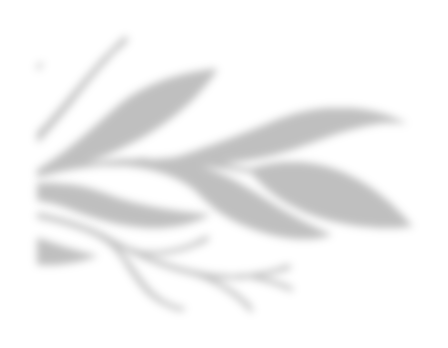
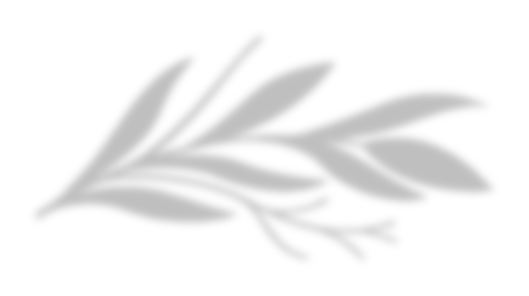
05.29
解決有橫拉問題

diff --git a/dist/style/index.min.css b/dist/style/index.min.css
@@ -1,2 +1,2 @@
-nav.navbar #header .nav-menu ul li a,#BighomeWebsite .text .clickBtn a,#habbits .myArticle h4 a{text-decoration:none}@font-face{font-family:'jf-bubble';src:url("../fonts/jf-openhuninn-1.1/jf-openhuninn-1.1.ttf")}html{scroll-behavior:smooth}body{background-color:#F7F1D7 !important;font-family:'jf-bubble' !important}nav.navbar{position:fixed;z-index:999;right:0}nav.navbar #toggle{width:28px;height:30px;margin:10px 25px;display:none}nav.navbar #toggle div{width:100%;height:5px;background:#DB6C5A;margin:4px auto;-webkit-transition:all 0.3s;transition:all 0.3s;-webkit-backface-visibility:hidden;backface-visibility:hidden}nav.navbar #header{position:fixed;top:0;left:0;bottom:0;z-index:9997;-webkit-transition:all 0.5s;transition:all 0.5s;padding:15px;overflow-y:auto}nav.navbar #header .nav-menu ul{margin:0;padding:0;list-style:none}nav.navbar #header .nav-menu ul li a{display:-webkit-box;display:-ms-flexbox;display:flex;-webkit-box-align:center;-ms-flex-align:center;align-items:center;-webkit-box-pack:center;-ms-flex-pack:center;justify-content:center;color:#F7F1D7;padding:10px 18px;margin-bottom:8px;-webkit-transition:0.3s;transition:0.3s;font-size:15px;border-radius:50px;background:#AAB28A;height:56px;overflow:hidden;transition:0.3s;letter-spacing:2px}nav.navbar #header.active{left:0}nav.navbar #header .nav-menu a:hover,nav.navbar #header .nav-menu .active>a,nav.navbar #header .nav-menu li:hover>a{color:#fff;background:#DC8B7A}#toggle.on .one{-webkit-transform:rotate(45deg) translate(5px, 5px);transform:rotate(45deg) translate(5px, 5px)}#toggle.on .two{opacity:0}#toggle.on .three{-webkit-transform:rotate(-45deg) translate(7px, -8px);transform:rotate(-45deg) translate(7px, -8px)}#banner{height:50vh;padding-top:54px}#banner .aboutme .text{margin:44px 0px;font-size:1.5rem;color:grey;letter-spacing:1px;line-height:57px;text-align:justify}#banner .aboutme .text p{padding-right:1rem}#banner .lineGroup .top{width:100%;height:100%}#banner .lineGroup .top::before{content:'';position:absolute;width:185px;height:3px;background-color:#DB6C5A;-webkit-transform:rotate(-45deg);transform:rotate(-45deg);left:10px;top:50px}#banner .lineGroup .top::after{content:'';position:absolute;width:260px;height:3px;background-color:#DB6C5A;-webkit-transform:rotate(-45deg);transform:rotate(-45deg);left:-10px;top:65px}#banner .lineGroup .bottom{width:100%;height:100%}#banner .lineGroup .bottom::before{content:'';position:absolute;width:174px;height:3px;background-color:#DB6C5A;-webkit-transform:rotate(-45deg);transform:rotate(-45deg);left:10px;top:120px}#banner .lineGroup .bottom::after{content:'';position:absolute;width:250px;height:3px;background-color:#DB6C5A;-webkit-transform:rotate(-45deg);transform:rotate(-45deg);left:23px;top:102px}#banner .photo{position:absolute;left:50%;-webkit-transform:translateX(-50%);transform:translateX(-50%);bottom:-31px;width:404px;height:454px;background-color:#ACB767;background-image:url("../img/shirley_photo.png");background-repeat:no-repeat;background-position:bottom;z-index:99}#banner .irregular{position:absolute;left:50%;-webkit-transform:translateX(-50%);transform:translateX(-50%);width:452px;height:280px;bottom:-73px;background-image:url("../img/irregular_pink.png");background-repeat:no-repeat;z-index:9}#banner .shirley{-webkit-transform:rotate(90deg);transform:rotate(90deg);position:absolute;z-index:399}#banner .shirley .shirley_line text{stroke-dasharray:700;stroke-dashoffset:500;-webkit-animation:dash 5s linear forwards;animation:dash 5s linear forwards}.wave{position:relative;height:50vh}.wave path{fill:#707A56}.wave .resume{position:absolute;top:25%;left:50%;-webkit-transform:translateX(-50%);transform:translateX(-50%);text-align:center;color:#F7F1D7;letter-spacing:2px}.wave .resume .title{margin:44px 0px}.wave .resume .btn{width:160px;height:50px;display:inline-block;background-color:#DC8B7A;margin:44px 0px}.wave .resume .btn a{text-decoration:none;color:#F7F1D7;font-size:1.5rem}@media (max-width: 1200px){nav.navbar{padding-left:100px}#bannerGroup #banner .aboutme h2{font-size:1.5rem}#bannerGroup #banner .aboutme .text{font-size:unset}#bannerGroup #banner .photo{width:344px;height:414px}#bannerGroup #banner .irregular{width:380px;height:240px;bottom:-73px;background-image:url("../img/irregular_pink380.png")}}@media (max-width: 991px){nav.navbar #toggle{display:block;z-index:9999}nav.navbar #header{width:100%;background:#F7F1D7;border-right:1px solid #e6e9ec;left:-100%}}@media (max-width: 768px){nav.navbar{padding-left:30px}nav.navbar #shirley-navbar-nav{background-color:rgba(0,0,0,0.5)}#bannerGroup #banner{height:37vh}#bannerGroup #banner .aboutme .text{letter-spacing:1px;line-height:40px}#bannerGroup #banner .lineGroup .top::before{width:115px;left:-42px;top:30px}#bannerGroup #banner .lineGroup .top::after{width:180px;left:-52px;top:40px}#bannerGroup #banner .lineGroup .bottom::before{width:115px;left:-42px;top:92px}#bannerGroup #banner .lineGroup .bottom::after{width:180px;left:-52px;top:100px}#bannerGroup #banner .photo{width:314px;height:374px;bottom:-58px;left:43%;background-image:url("../img/shirley_photo_239.png")}#bannerGroup #banner .irregular{width:390px;height:210px;bottom:-78px;background-image:url("../img/irregular_pink340.png")}#bannerGroup .wave{height:63vh}}@media (max-width: 575px){nav.navbar{padding-left:6px}#bannerGroup{height:180vh}#bannerGroup #banner{height:60vh;padding-top:74px}#bannerGroup #banner .aboutme{padding:0 15px}#bannerGroup #banner .aboutme p{padding-right:unset}#bannerGroup #banner .photo{width:314px;height:324px;left:50%;top:0}#bannerGroup #banner .irregular{width:380px}#bannerGroup .wave .resume{top:21%}#bannerGroup .wave .resume h2{font-size:1.5rem}#bannerGroup .wave .resume .btn{width:130px;height:40px}#bannerGroup .wave .resume .btn a{font-size:1rem}.wave{bottom:-330px}}@media (max-width: 320px){#bannerGroup{height:210vh}#bannerGroup #banner{height:76vh}#bannerGroup .wave{height:74vh}}@-webkit-keyframes dash{from{opacity:0}to{stroke-dashoffset:0;opacity:1}}@keyframes dash{from{opacity:0}to{stroke-dashoffset:0;opacity:1}}#Portfolio{padding:88px 0px;position:relative}#Portfolio .leaves{position:absolute;left:0}#Portfolio .leaves img{width:100%}#Portfolio div iframe{width:100%;height:700px}@media (max-width: 768px){#Portfolio{padding:44px 0px}#Portfolio .leaves{width:140px;top:-3px}#Portfolio div iframe{height:700px}}@media (max-width: 576px){#Portfolio .leaves{width:80px;top:-43px}#Portfolio div iframe{height:330px}}@media (max-width: 320px){#Portfolio .leaves{width:81px;top:0px}}#BighomeWebsite{padding:88px 0px;color:#707A56;position:relative}#BighomeWebsite .leaves{width:400px;position:absolute;top:-12%;right:0}#BighomeWebsite .leaves img{width:100%}#BighomeWebsite .mockUp{width:770px;margin:0 auto}#BighomeWebsite .mockUp img{width:100%}#BighomeWebsite .text h4{font-size:1rem;text-align:center}#BighomeWebsite .text .background{position:relative;z-index:1}#BighomeWebsite .text .background::before{content:'';position:absolute;width:33%;border-top:1px solid #273E36;top:50%;left:0;right:0;bottom:0;margin:0 auto;z-index:-1}#BighomeWebsite .text .background span{background:#F7F1D7;padding:0 35px}#BighomeWebsite .text .title{width:200px;line-height:35px;background-color:#DC8B7A;-webkit-box-shadow:5px 5px rgba(0,0,0,0.5);box-shadow:5px 5px rgba(0,0,0,0.5);margin:44px auto;text-align:center;font-size:1.5rem;color:#F7F1D7}#BighomeWebsite .text p{width:431px;margin:auto;text-align:justify;line-height:35px;letter-spacing:2px}#BighomeWebsite .text .QRcode{width:100px;margin:44px auto}#BighomeWebsite .text .QRcode img{width:100%}#BighomeWebsite .text .clickBtn{position:relative;z-index:1}#BighomeWebsite .text .clickBtn::before{content:'';position:absolute;width:33%;border-top:1px solid #273E36;z-index:-1;top:50%;left:0;right:0;bottom:0;margin:auto}#BighomeWebsite .text .clickBtn a{background:#F7F1D7;padding:0 35px;position:relative;color:#707A56}#BighomeWebsite .text .clickBtn a::after{content:'';position:absolute;width:95px;height:30px;top:-15%;left:50%;-webkit-transform:translateX(-50%);transform:translateX(-50%);border:1px solid #707A56}@media (max-width: 768px){#BighomeWebsite{padding:44px 0px}#BighomeWebsite .leaves{width:290px;top:-9%}#BighomeWebsite .text .title{width:220px;line-height:47px}#BighomeWebsite .text .background::before{width:80%}#BighomeWebsite .text .clickBtn::before{width:80%}}@media (max-width: 575px){#BighomeWebsite .leaves{width:160px;top:-9%}#BighomeWebsite .mockUp{width:370px}#BighomeWebsite .text .background span{padding:0 25px}#BighomeWebsite .text p{width:301px;line-height:35px;letter-spacing:2px}}@media (max-width: 320px){#BighomeWebsite .mockUp{width:320px}#BighomeWebsite .leaves{width:140px;top:-7%}#BighomeWebsite .text p{width:270px;letter-spacing:1px}}#vedioGroup{padding:88px 0px;color:#707A56;font-size:1.5rem;text-align:center;position:relative}#vedioGroup .title{width:346px;line-height:47px;background-color:#DC8B7A;-webkit-box-shadow:5px 5px rgba(0,0,0,0.5);box-shadow:5px 5px rgba(0,0,0,0.5);margin:22px 0;color:#F7F1D7}#vedioGroup iframe{width:450px;height:320px}#vedioGroup .leaves{width:280px;position:absolute;left:0;bottom:-320px}#vedioGroup .leaves img{width:100%}@media (max-width: 768px){#vedioGroup{padding:44px 0px}#vedioGroup .title{width:226px;line-height:38px;margin:0 auto 40px auto}#vedioGroup iframe{width:350px}#vedioGroup .leaves{width:190px;left:0px;bottom:-60px}}@media (max-width: 576px){#vedioGroup p{font-size:1rem}#vedioGroup iframe{width:340px;height:230px}#vedioGroup .leaves{width:100px;left:0px;bottom:-110px}}@media (max-width: 320px){#vedioGroup iframe{width:290px;height:200px}#vedioGroup .leaves{width:90px}}#habbits{padding:88px 0px;background-color:#707A56}#habbits .myArticle{width:200px}#habbits .myArticle img{width:100%}#habbits .myArticle h4{position:relative;text-align:center;position:relative;color:#F7F1D7;font-size:1rem;margin:15px 0 0 0;z-index:1}#habbits .myArticle h4::before{content:'';position:absolute;border-top:1px solid #F7F1D7;top:50%;left:0;right:0;bottom:0;z-index:-1}#habbits .myArticle h4 a{color:#F7F1D7}#habbits .myArticle h4 a span{width:100px;padding:0 14px;background-color:#707A56}#habbits .title{margin:44px auto;width:180px;line-height:35px;background-color:#DC8B7A;-webkit-box-shadow:5px 5px rgba(0,0,0,0.5);box-shadow:5px 5px rgba(0,0,0,0.5);text-align:center;color:#F7F1D7}#habbits p{color:#F7F1D7;width:410px;line-height:35px;letter-spacing:2px}#habbits .little-title{text-align:center;position:relative;z-index:1;font-size:1rem;margin:44px auto;color:#273E36}#habbits .little-title::after{content:'';position:absolute;width:100%;border-top:1px solid #273E36;top:50%;left:0;right:0;bottom:0;margin:auto;z-index:-1}#habbits .little-title span{background-color:#707A56;padding:0 25px}#habbits .img{margin:auto 0px}#habbits .img img{width:100%}#habbits .title-2{font-size:1.5rem;-ms-flex-wrap:wrap;flex-wrap:wrap;width:80px;margin:44px auto 0 auto;color:#273E36}@media (max-width: 768px){#habbits{padding:44px 0px}#habbits .myArticle{width:140px}#habbits p{width:265px;letter-spacing:1px}}@media (max-width: 576px){#habbits .title-2{margin:44px auto 44px auto}}#futureGoal{width:100%;min-height:100vh;display:-webkit-box;display:-ms-flexbox;display:flex;-webkit-box-pack:center;-ms-flex-pack:center;justify-content:center;-webkit-box-align:center;-ms-flex-align:center;align-items:center;position:relative}#futureGoal::after{content:'未來目標';margin-top:100px;position:absolute;font-size:60px;color:white;left:50%;-webkit-transform:translateX(-50%);transform:translateX(-50%)}#futureGoal .content{text-align:center}#futureGoal .content .img img{width:100%}#futureGoal .coin{margin-left:auto;margin-right:auto;margin-top:auto;position:absolute;bottom:0;left:0;right:0;top:0;height:150px;width:150px;padding-bottom:15%}#futureGoal .coin .jump{-webkit-animation:jump 1.5s infinite ease;animation:jump 1.5s infinite ease}#futureGoal .coin .front{position:absolute;height:150px;width:150px;background:#ffbd0b;border-radius:50%;border-top:7px solid #ffd84c;border-left:7px solid #ffd84c;border-right:7px solid #d57e08;border-bottom:7px solid #d57e08;-webkit-transform:rotate(44deg);transform:rotate(44deg)}#futureGoal .coin .front::before{content:'';margin:35.5px 35.5px;position:absolute;width:70px;height:70px;background:#f0a608;border-radius:50%;border-bottom:5px solid #ffd84c;border-right:5px solid #ffd84c;border-left:5px solid #d57e08;border-top:5px solid #d57e08;z-index:2}#futureGoal .coin .front .currency{overflow:hidden;position:absolute;color:#ffbd0b;font-size:40px;-webkit-transform:rotate(-44deg);transform:rotate(-44deg);line-height:3.7;width:100%;height:100%;text-align:center;text-shadow:0 3px 0 #cb7407;z-index:3;border-radius:50%}#futureGoal .coin .front .currency::after{content:"";position:absolute;height:200px;width:40px;margin:20px -65px;-webkit-box-shadow:50px -23px 0 -10px rgba(255,255,255,0.22),85px -10px 0 -16px rgba(255,255,255,0.19);box-shadow:50px -23px 0 -10px rgba(255,255,255,0.22),85px -10px 0 -16px rgba(255,255,255,0.19);-webkit-transform:rotate(-50deg);transform:rotate(-50deg);-webkit-animation:shine 1.5s infinite ease;animation:shine 1.5s infinite ease}#futureGoal .coin .front .shapes{-webkit-transform:rotate(-44deg);transform:rotate(-44deg);position:absolute;top:0;left:0;width:100%;height:100%}#futureGoal .coin .front .shapes .shape{width:20px;height:4px;background:#d57e08;border-top:2px solid #c47207;margin:75px 7px}#futureGoal .coin .front .shapes .shape::before{content:"";position:absolute;width:20px;height:4px;background:#d57e08;border-top:2px solid #c47207;margin:-10px 0}#futureGoal .coin .front .shapes .shape::after{content:"";position:absolute;width:20px;height:4px;background:#d57e08;border-top:2px solid #c47207;margin:8px 0}#futureGoal .coin .front .shapes .shape_l{float:left}#futureGoal .coin .front .shapes .shape_r{float:right}#futureGoal .coin .front .shapes .top{font-size:30px;color:#d67f08;text-align:center;width:100%;position:absolute;left:0}#futureGoal .coin .front .shapes .bottom{font-size:30px;color:#d67f08;text-align:center;width:100%;position:absolute;left:0;bottom:0}#futureGoal .coin .shadow{width:100%;height:20px;background:rgba(0,0,0,0.4);left:0;bottom:-50px;border-radius:50%;z-index:-1;margin:185px 7px 0 7px;-webkit-animation:swift 1.5s infinite ease;animation:swift 1.5s infinite ease}@-webkit-keyframes swift{0%{opacity:0.8}50%{opacity:0.4;-webkit-transform:scale(0.8);transform:scale(0.8)}100%{opacity:0.8}}@keyframes swift{0%{opacity:0.8}50%{opacity:0.4;-webkit-transform:scale(0.8);transform:scale(0.8)}100%{opacity:0.8}}@-webkit-keyframes jump{0%{top:0}50%{top:-40px}100%{top:0}}@keyframes jump{0%{top:0}50%{top:-40px}100%{top:0}}@-webkit-keyframes shine{0%{margin:20px -65px}50%{margin:70px -85px}100%{margin:20px -65px}}@keyframes shine{0%{margin:20px -65px}50%{margin:70px -85px}100%{margin:20px -65px}}@media (max-width: 768px){#futureGoal .img{top:-80px !important}#futureGoal .coin{padding-bottom:35%}}@media (max-width: 575px){#futureGoal::after{font-size:30px;margin-top:10px}#futureGoal .coin{padding-bottom:65%}}#footer{width:100%;min-height:100vh;color:#F7F1D7;background-color:#273E36;position:relative}#footer ::-webkit-input-placeholder{color:grey}#footer .leaves-l{position:absolute;left:-2%;top:10%;width:400px}#footer .leaves-l img{width:100%}#footer .leaves-r{position:absolute;right:-2%;width:400px}#footer .leaves-r img{width:100%}#footer ul li{list-style:none}#footer ul li i{margin-right:10px}#footer ul.info{margin-bottom:7rem}#footer ul.title{font-size:25px;margin-bottom:6rem}#footer form div{margin-bottom:4.5rem}#footer form div input{width:45%;background-color:#273E36;border:1px solid #F7F1D7;border-radius:10px;padding:10px;outline:none}#footer form div textarea{width:100%;background-color:#273E36;border:1px solid #F7F1D7;border-radius:10px;padding:10px;outline:none}#footer form .Btn{text-align:center}#footer form .Btn button{width:140px;padding:10px;border-radius:10px;background-color:#DB6C5A;color:#F7F1D7}#footer .copyRight{position:absolute;bottom:88px;width:58%;color:#707A56}#footer .copyRight .socialBtn{font-size:24px}#footer .copyRight .socialBtn span a{color:#707A56}#footer .copyRight .socialBtn span a:hover{color:#DC8B7A}@media (max-width: 768px){#footer .leaves-l{top:20%;width:270px}#footer .leaves-r{top:3%;width:330px}#footer ul{margin-bottom:3rem}#footer form div{margin-bottom:3.5rem}#footer form input{margin-right:1.5rem}#footer ul.info{margin-bottom:5rem}#footer .copyRight{width:88%;bottom:28px}}@media (max-width: 576px){#footer .leaves-l{top:21%;width:155px}#footer .leaves-r{top:5%;width:130px}#footer ul.info{margin-bottom:2rem}#footer ul.title{margin-bottom:50px;display:-webkit-box;display:-ms-flexbox;display:flex;-webkit-box-pack:center;-ms-flex-pack:center;justify-content:center;padding-left:unset}#footer form div{margin-bottom:2rem}#footer form div input{width:46%;padding:5px;margin-right:unset}#footer form div textarea{padding:5px}#footer form .Btn button{padding:5px;margin-right:unset}#footer .copyRight{font-size:10px;-webkit-box-orient:vertical;-webkit-box-direction:normal;-ms-flex-direction:column;flex-direction:column}}@media (max-width: 320px){#footer .leaves-l{top:27%;width:125px;-webkit-transform:rotate(-16deg);transform:rotate(-16deg);left:-4%}#footer .leaves-r{top:6%;width:110px}#footer ul.title{margin-bottom:35px}#footer form div{margin-bottom:1rem}}
+nav.navbar #header .nav-menu ul li a,#BighomeWebsite .text .clickBtn a,#habbits .myArticle h4 a{text-decoration:none}@font-face{font-family:'jf-bubble';src:url("../fonts/jf-openhuninn-1.1/jf-openhuninn-1.1.ttf")}html{scroll-behavior:smooth}body{background-color:#F7F1D7 !important;font-family:'jf-bubble' !important}nav.navbar{position:fixed;z-index:999;right:0}nav.navbar #toggle{width:28px;height:30px;margin:10px 25px;display:none}nav.navbar #toggle div{width:100%;height:5px;background:#DB6C5A;margin:4px auto;-webkit-transition:all 0.3s;transition:all 0.3s;-webkit-backface-visibility:hidden;backface-visibility:hidden}nav.navbar #header{position:fixed;top:0;left:0;bottom:0;z-index:9997;-webkit-transition:all 0.5s;transition:all 0.5s;padding:15px;overflow-y:auto}nav.navbar #header .nav-menu ul{margin:0;padding:0;list-style:none}nav.navbar #header .nav-menu ul li a{display:-webkit-box;display:-ms-flexbox;display:flex;-webkit-box-align:center;-ms-flex-align:center;align-items:center;-webkit-box-pack:center;-ms-flex-pack:center;justify-content:center;color:#F7F1D7;padding:10px 18px;margin-bottom:8px;-webkit-transition:0.3s;transition:0.3s;font-size:15px;border-radius:50px;background:#AAB28A;height:56px;overflow:hidden;transition:0.3s;letter-spacing:2px}nav.navbar #header.active{left:0}nav.navbar #header .nav-menu a:hover,nav.navbar #header .nav-menu .active>a,nav.navbar #header .nav-menu li:hover>a{color:#fff;background:#DC8B7A}#toggle.on .one{-webkit-transform:rotate(45deg) translate(5px, 5px);transform:rotate(45deg) translate(5px, 5px)}#toggle.on .two{opacity:0}#toggle.on .three{-webkit-transform:rotate(-45deg) translate(7px, -8px);transform:rotate(-45deg) translate(7px, -8px)}#banner{height:50vh;padding-top:54px}#banner .aboutme .text{margin:44px 0px;font-size:1.5rem;color:grey;letter-spacing:1px;line-height:57px;text-align:justify}#banner .aboutme .text p{padding-right:1rem}#banner .lineGroup .top{width:100%;height:100%}#banner .lineGroup .top::before{content:'';position:absolute;width:185px;height:3px;background-color:#DB6C5A;-webkit-transform:rotate(-45deg);transform:rotate(-45deg);left:10px;top:50px}#banner .lineGroup .top::after{content:'';position:absolute;width:260px;height:3px;background-color:#DB6C5A;-webkit-transform:rotate(-45deg);transform:rotate(-45deg);left:-10px;top:65px}#banner .lineGroup .bottom{width:100%;height:100%}#banner .lineGroup .bottom::before{content:'';position:absolute;width:174px;height:3px;background-color:#DB6C5A;-webkit-transform:rotate(-45deg);transform:rotate(-45deg);left:10px;top:120px}#banner .lineGroup .bottom::after{content:'';position:absolute;width:250px;height:3px;background-color:#DB6C5A;-webkit-transform:rotate(-45deg);transform:rotate(-45deg);left:23px;top:102px}#banner .photo{position:absolute;left:50%;-webkit-transform:translateX(-50%);transform:translateX(-50%);bottom:-31px;width:404px;height:454px;background-color:#ACB767;background-image:url("../img/shirley_photo.png");background-repeat:no-repeat;background-position:bottom;z-index:99}#banner .irregular{position:absolute;left:50%;-webkit-transform:translateX(-50%);transform:translateX(-50%);width:452px;height:280px;bottom:-73px;background-image:url("../img/irregular_pink.png");background-repeat:no-repeat;z-index:9}#banner .shirley{-webkit-transform:rotate(90deg);transform:rotate(90deg);position:absolute;z-index:399}#banner .shirley .shirley_line text{stroke-dasharray:700;stroke-dashoffset:500;-webkit-animation:dash 5s linear forwards;animation:dash 5s linear forwards}.wave{position:relative;height:50vh}.wave path{fill:#707A56}.wave .resume{position:absolute;top:25%;left:50%;-webkit-transform:translateX(-50%);transform:translateX(-50%);text-align:center;color:#F7F1D7;letter-spacing:2px}.wave .resume .title{margin:44px 0px}.wave .resume .btn{width:160px;height:50px;display:inline-block;background-color:#DC8B7A;margin:44px 0px}.wave .resume .btn a{text-decoration:none;color:#F7F1D7;font-size:1.5rem}@media (max-width: 1200px){nav.navbar{padding-left:100px}#bannerGroup #banner .aboutme h2{font-size:1.5rem}#bannerGroup #banner .aboutme .text{font-size:unset}#bannerGroup #banner .photo{width:344px;height:414px}#bannerGroup #banner .irregular{width:380px;height:240px;bottom:-73px;background-image:url("../img/irregular_pink380.png")}}@media (max-width: 991px){nav.navbar #toggle{display:block;z-index:9999}nav.navbar #header{width:100%;background:#F7F1D7;border-right:1px solid #e6e9ec;left:-100%}}@media (max-width: 768px){nav.navbar{padding-left:30px}nav.navbar #shirley-navbar-nav{background-color:rgba(0,0,0,0.5)}#bannerGroup #banner{height:37vh}#bannerGroup #banner .aboutme .text{letter-spacing:1px;line-height:40px}#bannerGroup #banner .lineGroup .top::before{width:115px;left:-42px;top:30px}#bannerGroup #banner .lineGroup .top::after{width:180px;left:-52px;top:40px}#bannerGroup #banner .lineGroup .bottom::before{width:115px;left:-42px;top:92px}#bannerGroup #banner .lineGroup .bottom::after{width:180px;left:-52px;top:100px}#bannerGroup #banner .photo{width:314px;height:374px;bottom:-58px;left:43%;background-image:url("../img/shirley_photo_239.png")}#bannerGroup #banner .irregular{width:390px;height:210px;bottom:-78px;background-image:url("../img/irregular_pink340.png")}#bannerGroup .wave{height:63vh}}@media (max-width: 575px){nav.navbar{padding-left:6px}#bannerGroup{height:180vh}#bannerGroup #banner{height:60vh;padding-top:74px}#bannerGroup #banner .aboutme{padding:0 15px}#bannerGroup #banner .aboutme p{padding-right:unset}#bannerGroup #banner .photo{width:314px;height:324px;left:50%;top:0}#bannerGroup #banner .irregular{width:380px}#bannerGroup .wave .resume{top:21%}#bannerGroup .wave .resume h2{font-size:1.5rem}#bannerGroup .wave .resume .btn{width:130px;height:40px}#bannerGroup .wave .resume .btn a{font-size:1rem}.wave{bottom:-330px}}@media (max-width: 320px){#bannerGroup{height:210vh}#bannerGroup #banner{height:76vh}#bannerGroup .wave{height:74vh}}@-webkit-keyframes dash{from{opacity:0}to{stroke-dashoffset:0;opacity:1}}@keyframes dash{from{opacity:0}to{stroke-dashoffset:0;opacity:1}}#Portfolio{padding:88px 0px;position:relative}#Portfolio .leaves{position:absolute;left:0}#Portfolio .leaves img{width:100%}#Portfolio div iframe{width:100%;height:700px}@media (max-width: 768px){#Portfolio{padding:44px 0px}#Portfolio .leaves{width:140px;top:-3px}#Portfolio div iframe{height:700px}}@media (max-width: 576px){#Portfolio .leaves{width:80px;top:-43px}#Portfolio div iframe{height:330px}}@media (max-width: 320px){#Portfolio .leaves{width:81px;top:0px}}#BighomeWebsite{padding:88px 0px;color:#707A56;position:relative}#BighomeWebsite .leaves{width:400px;position:absolute;top:-12%;right:0}#BighomeWebsite .leaves img{width:100%}#BighomeWebsite .mockUp{width:770px;margin:0 auto}#BighomeWebsite .mockUp img{width:100%}#BighomeWebsite .text h4{font-size:1rem;text-align:center}#BighomeWebsite .text .background{position:relative;z-index:1}#BighomeWebsite .text .background::before{content:'';position:absolute;width:33%;border-top:1px solid #273E36;top:50%;left:0;right:0;bottom:0;margin:0 auto;z-index:-1}#BighomeWebsite .text .background span{background:#F7F1D7;padding:0 35px}#BighomeWebsite .text .title{width:200px;line-height:35px;background-color:#DC8B7A;-webkit-box-shadow:5px 5px rgba(0,0,0,0.5);box-shadow:5px 5px rgba(0,0,0,0.5);margin:44px auto;text-align:center;font-size:1.5rem;color:#F7F1D7}#BighomeWebsite .text p{width:431px;margin:auto;text-align:justify;line-height:35px;letter-spacing:2px}#BighomeWebsite .text .QRcode{width:100px;margin:44px auto}#BighomeWebsite .text .QRcode img{width:100%}#BighomeWebsite .text .clickBtn{position:relative;z-index:1}#BighomeWebsite .text .clickBtn::before{content:'';position:absolute;width:33%;border-top:1px solid #273E36;z-index:-1;top:50%;left:0;right:0;bottom:0;margin:auto}#BighomeWebsite .text .clickBtn a{background:#F7F1D7;padding:0 35px;position:relative;color:#707A56}#BighomeWebsite .text .clickBtn a::after{content:'';position:absolute;width:95px;height:30px;top:-15%;left:50%;-webkit-transform:translateX(-50%);transform:translateX(-50%);border:1px solid #707A56}@media (max-width: 768px){#BighomeWebsite{padding:44px 0px}#BighomeWebsite .leaves{width:290px;top:-9%}#BighomeWebsite .text .title{width:220px;line-height:47px}#BighomeWebsite .text .background::before{width:80%}#BighomeWebsite .text .clickBtn::before{width:80%}}@media (max-width: 575px){#BighomeWebsite .leaves{width:160px;top:-9%}#BighomeWebsite .mockUp{width:370px}#BighomeWebsite .text .background span{padding:0 25px}#BighomeWebsite .text p{width:301px;line-height:35px;letter-spacing:2px}}@media (max-width: 320px){#BighomeWebsite .mockUp{width:320px}#BighomeWebsite .leaves{width:140px;top:-7%}#BighomeWebsite .text p{width:270px;letter-spacing:1px}}#vedioGroup{padding:88px 0px;color:#707A56;font-size:1.5rem;text-align:center;position:relative}#vedioGroup .title{width:346px;line-height:47px;background-color:#DC8B7A;-webkit-box-shadow:5px 5px rgba(0,0,0,0.5);box-shadow:5px 5px rgba(0,0,0,0.5);margin:22px 0;color:#F7F1D7}#vedioGroup iframe{width:450px;height:320px}#vedioGroup .leaves{width:280px;position:absolute;left:0;bottom:-320px}#vedioGroup .leaves img{width:100%}@media (max-width: 768px){#vedioGroup{padding:44px 0px}#vedioGroup .title{width:226px;line-height:38px;margin:0 auto 40px auto}#vedioGroup iframe{width:350px}#vedioGroup .leaves{width:190px;left:0px;bottom:-60px}}@media (max-width: 576px){#vedioGroup p{font-size:1rem}#vedioGroup iframe{width:340px;height:230px}#vedioGroup .leaves{width:100px;left:0px;bottom:-110px}}@media (max-width: 320px){#vedioGroup iframe{width:290px;height:200px}#vedioGroup .leaves{width:90px}}#habbits{padding:88px 0px;background-color:#707A56}#habbits .myArticle{width:200px}#habbits .myArticle img{width:100%}#habbits .myArticle h4{position:relative;text-align:center;position:relative;color:#F7F1D7;font-size:1rem;margin:15px 0 0 0;z-index:1}#habbits .myArticle h4::before{content:'';position:absolute;border-top:1px solid #F7F1D7;top:50%;left:0;right:0;bottom:0;z-index:-1}#habbits .myArticle h4 a{color:#F7F1D7}#habbits .myArticle h4 a span{width:100px;padding:0 14px;background-color:#707A56}#habbits .title{margin:44px auto;width:180px;line-height:35px;background-color:#DC8B7A;-webkit-box-shadow:5px 5px rgba(0,0,0,0.5);box-shadow:5px 5px rgba(0,0,0,0.5);text-align:center;color:#F7F1D7}#habbits p{color:#F7F1D7;width:410px;line-height:35px;letter-spacing:2px}#habbits .little-title{text-align:center;position:relative;z-index:1;font-size:1rem;margin:44px auto;color:#273E36}#habbits .little-title::after{content:'';position:absolute;width:100%;border-top:1px solid #273E36;top:50%;left:0;right:0;bottom:0;margin:auto;z-index:-1}#habbits .little-title span{background-color:#707A56;padding:0 25px}#habbits .img{margin:auto 0px}#habbits .img img{width:100%}#habbits .title-2{font-size:1.5rem;-ms-flex-wrap:wrap;flex-wrap:wrap;width:80px;margin:44px auto 0 auto;color:#273E36}@media (max-width: 768px){#habbits{padding:44px 0px}#habbits .myArticle{width:140px}#habbits p{width:265px;letter-spacing:1px}}@media (max-width: 576px){#habbits .title-2{margin:44px auto 44px auto}}#futureGoal{width:100%;min-height:100vh;display:-webkit-box;display:-ms-flexbox;display:flex;-webkit-box-pack:center;-ms-flex-pack:center;justify-content:center;-webkit-box-align:center;-ms-flex-align:center;align-items:center;position:relative}#futureGoal::after{content:'未來目標';margin-top:100px;position:absolute;font-size:60px;color:white;left:50%;-webkit-transform:translateX(-50%);transform:translateX(-50%)}#futureGoal .content{text-align:center}#futureGoal .content .img img{width:100%}#futureGoal .coin{margin-left:auto;margin-right:auto;margin-top:auto;position:absolute;bottom:0;left:0;right:0;top:0;height:150px;width:150px;padding-bottom:15%}#futureGoal .coin .jump{-webkit-animation:jump 1.5s infinite ease;animation:jump 1.5s infinite ease}#futureGoal .coin .front{position:absolute;height:150px;width:150px;background:#ffbd0b;border-radius:50%;border-top:7px solid #ffd84c;border-left:7px solid #ffd84c;border-right:7px solid #d57e08;border-bottom:7px solid #d57e08;-webkit-transform:rotate(44deg);transform:rotate(44deg)}#futureGoal .coin .front::before{content:'';margin:35.5px 35.5px;position:absolute;width:70px;height:70px;background:#f0a608;border-radius:50%;border-bottom:5px solid #ffd84c;border-right:5px solid #ffd84c;border-left:5px solid #d57e08;border-top:5px solid #d57e08;z-index:2}#futureGoal .coin .front .currency{overflow:hidden;position:absolute;color:#ffbd0b;font-size:40px;-webkit-transform:rotate(-44deg);transform:rotate(-44deg);line-height:3.7;width:100%;height:100%;text-align:center;text-shadow:0 3px 0 #cb7407;z-index:3;border-radius:50%}#futureGoal .coin .front .currency::after{content:"";position:absolute;height:200px;width:40px;margin:20px -65px;-webkit-box-shadow:50px -23px 0 -10px rgba(255,255,255,0.22),85px -10px 0 -16px rgba(255,255,255,0.19);box-shadow:50px -23px 0 -10px rgba(255,255,255,0.22),85px -10px 0 -16px rgba(255,255,255,0.19);-webkit-transform:rotate(-50deg);transform:rotate(-50deg);-webkit-animation:shine 1.5s infinite ease;animation:shine 1.5s infinite ease}#futureGoal .coin .front .shapes{-webkit-transform:rotate(-44deg);transform:rotate(-44deg);position:absolute;top:0;left:0;width:100%;height:100%}#futureGoal .coin .front .shapes .shape{width:20px;height:4px;background:#d57e08;border-top:2px solid #c47207;margin:75px 7px}#futureGoal .coin .front .shapes .shape::before{content:"";position:absolute;width:20px;height:4px;background:#d57e08;border-top:2px solid #c47207;margin:-10px 0}#futureGoal .coin .front .shapes .shape::after{content:"";position:absolute;width:20px;height:4px;background:#d57e08;border-top:2px solid #c47207;margin:8px 0}#futureGoal .coin .front .shapes .shape_l{float:left}#futureGoal .coin .front .shapes .shape_r{float:right}#futureGoal .coin .front .shapes .top{font-size:30px;color:#d67f08;text-align:center;width:100%;position:absolute;left:0}#futureGoal .coin .front .shapes .bottom{font-size:30px;color:#d67f08;text-align:center;width:100%;position:absolute;left:0;bottom:0}#futureGoal .coin .shadow{width:100%;height:20px;background:rgba(0,0,0,0.4);left:0;bottom:-50px;border-radius:50%;z-index:-1;margin:185px 7px 0 7px;-webkit-animation:swift 1.5s infinite ease;animation:swift 1.5s infinite ease}@-webkit-keyframes swift{0%{opacity:0.8}50%{opacity:0.4;-webkit-transform:scale(0.8);transform:scale(0.8)}100%{opacity:0.8}}@keyframes swift{0%{opacity:0.8}50%{opacity:0.4;-webkit-transform:scale(0.8);transform:scale(0.8)}100%{opacity:0.8}}@-webkit-keyframes jump{0%{top:0}50%{top:-40px}100%{top:0}}@keyframes jump{0%{top:0}50%{top:-40px}100%{top:0}}@-webkit-keyframes shine{0%{margin:20px -65px}50%{margin:70px -85px}100%{margin:20px -65px}}@keyframes shine{0%{margin:20px -65px}50%{margin:70px -85px}100%{margin:20px -65px}}@media (max-width: 768px){#futureGoal .img{top:-80px !important}#futureGoal .coin{padding-bottom:35%}}@media (max-width: 575px){#futureGoal::after{font-size:30px;margin-top:10px}#futureGoal .coin{padding-bottom:65%}}#footer{width:100%;min-height:100vh;color:#F7F1D7;background-color:#273E36;position:relative}#footer ::-webkit-input-placeholder{color:grey}#footer .leaves-l{position:absolute;left:0%;top:16%;width:400px}#footer .leaves-l img{width:100%}#footer .leaves-r{position:absolute;right:0%;width:400px}#footer .leaves-r img{width:100%}#footer ul li{list-style:none}#footer ul li i{margin-right:10px}#footer ul.info{margin-bottom:7rem}#footer ul.title{font-size:25px;margin-bottom:6rem}#footer form div{margin-bottom:4.5rem}#footer form div input{width:45%;background-color:#273E36;border:1px solid #F7F1D7;border-radius:10px;padding:10px;outline:none}#footer form div textarea{width:100%;background-color:#273E36;border:1px solid #F7F1D7;border-radius:10px;padding:10px;outline:none}#footer form .Btn{text-align:center}#footer form .Btn button{width:140px;padding:10px;border-radius:10px;background-color:#DB6C5A;color:#F7F1D7}#footer .copyRight{position:absolute;bottom:88px;width:58%;color:#707A56}#footer .copyRight .socialBtn{font-size:24px}#footer .copyRight .socialBtn span a{color:#707A56}#footer .copyRight .socialBtn span a:hover{color:#DC8B7A}@media (max-width: 768px){#footer .leaves-l{top:21%;width:270px}#footer .leaves-r{top:3%;width:330px}#footer ul{margin-bottom:3rem}#footer form div{margin-bottom:3.5rem}#footer form input{margin-right:1.5rem}#footer ul.info{margin-bottom:5rem}#footer .copyRight{width:88%;bottom:28px}}@media (max-width: 576px){#footer .leaves-l{top:26%;width:155px}#footer .leaves-r{top:5%;width:130px}#footer ul.info{margin-bottom:2rem}#footer ul.title{margin-bottom:50px;display:-webkit-box;display:-ms-flexbox;display:flex;-webkit-box-pack:center;-ms-flex-pack:center;justify-content:center;padding-left:unset}#footer form div{margin-bottom:2rem}#footer form div input{width:46%;padding:5px;margin-right:unset}#footer form div textarea{padding:5px}#footer form .Btn button{padding:5px;margin-right:unset}#footer .copyRight{font-size:10px;-webkit-box-orient:vertical;-webkit-box-direction:normal;-ms-flex-direction:column;flex-direction:column}}@media (max-width: 320px){#footer .leaves-l{top:29%;width:125px;-webkit-transform:rotate(-16deg);transform:rotate(-16deg);left:-4%}#footer .leaves-r{top:6%;width:110px}#footer ul.title{margin-bottom:35px}#footer form div{margin-bottom:1rem}}
 /*# sourceMappingURL=index.min.css.map */

diff --git a/index.html b/index.html
@@ -3,7 +3,7 @@
 <head>
     <meta charset="UTF-8">
     <meta name="viewport" content="width=device-width, initial-scale=1.0">
-    <title>Document</title>
+    <title>Shirley's Portfolio</title>
 
     <link rel="stylesheet" href="./style/index.css">
 
@@ -19,6 +19,7 @@
      <!-- navGroup -->
     <header id="navGroup">
     <nav class="navbar navbar-expand-lg">
+      <h1 class="sr-only">The Navbar</h1>
       <div class="container">           
 
         <div id="toggle" type="button" data-toggle="collapse" data-target="#shirley-navbar-nav" aria-controls="shirley-navbar-nav" aria-expanded="false" aria-label="Toggle navigation">
@@ -298,7 +299,9 @@
     </div>
     </section>
     <!-- End futureGoal -->
-    
+    </main>
+
+
     <!-- footer -->
     <section id="footer">
       <div class="leaves-l">
@@ -307,6 +310,7 @@
       <div class="leaves-r">
         <img src="./img/leaves-5.png" alt="">
       </div>
+
       <div class="container h-100">
         <div class="row mx-auto align-items-center min-vh-100">
           <div class="col-12 col-md-6 d-flex">
@@ -368,9 +372,6 @@
       </div>
     </section>
     <!-- End footer -->
-
-    </main>
-
 
 
 <!-- bootstrap -->

diff --git a/style/index.css b/style/index.css
@@ -1152,8 +1152,8 @@ nav.navbar #header .nav-menu a:hover, nav.navbar #header .nav-menu .active > a, 
 
 #footer .leaves-l {
   position: absolute;
-  left: -2%;
-  top: 10%;
+  left: 0%;
+  top: 16%;
   width: 400px;
 }
 
@@ -1163,7 +1163,7 @@ nav.navbar #header .nav-menu a:hover, nav.navbar #header .nav-menu .active > a, 
 
 #footer .leaves-r {
   position: absolute;
-  right: -2%;
+  right: 0%;
   width: 400px;
 }
 
@@ -1243,7 +1243,7 @@ nav.navbar #header .nav-menu a:hover, nav.navbar #header .nav-menu .active > a, 
 
 @media (max-width: 768px) {
   #footer .leaves-l {
-    top: 20%;
+    top: 21%;
     width: 270px;
   }
   #footer .leaves-r {
@@ -1270,7 +1270,7 @@ nav.navbar #header .nav-menu a:hover, nav.navbar #header .nav-menu .active > a, 
 
 @media (max-width: 576px) {
   #footer .leaves-l {
-    top: 21%;
+    top: 26%;
     width: 155px;
   }
   #footer .leaves-r {
@@ -1316,7 +1316,7 @@ nav.navbar #header .nav-menu a:hover, nav.navbar #header .nav-menu .active > a, 
 
 @media (max-width: 320px) {
   #footer .leaves-l {
-    top: 27%;
+    top: 29%;
     width: 125px;
     -webkit-transform: rotate(-16deg);
             transform: rotate(-16deg);

diff --git a/style/index.scss b/style/index.scss
@@ -1341,8 +1341,8 @@ nav.navbar{
 
     .leaves-l{
         position: absolute;
-        left: -2%;
-        top: 10%;
+        left: 0%;
+        top: 16%;
         width: 400px;
         
         img{
@@ -1352,7 +1352,7 @@ nav.navbar{
 
     .leaves-r{
         position: absolute;
-        right: -2%;
+        right: 0%;
         width: 400px;
 
         img{
@@ -1455,7 +1455,7 @@ nav.navbar{
 @media (max-width:768px){
     #footer{
         .leaves-l{
-            top: 20%;
+            top: 21%;
             width: 270px;
         }
 
@@ -1495,7 +1495,7 @@ nav.navbar{
 @media (max-width:576px){
     #footer{
         .leaves-l{
-            top: 21%;
+            top: 26%;
             width: 155px;
         }
 
@@ -1548,7 +1548,7 @@ nav.navbar{
 @media (max-width:320px){
     #footer{
         .leaves-l{
-            top: 27%;
+            top: 29%;
             width: 125px;
             transform: rotate(-16deg);
             left: -4%;      
